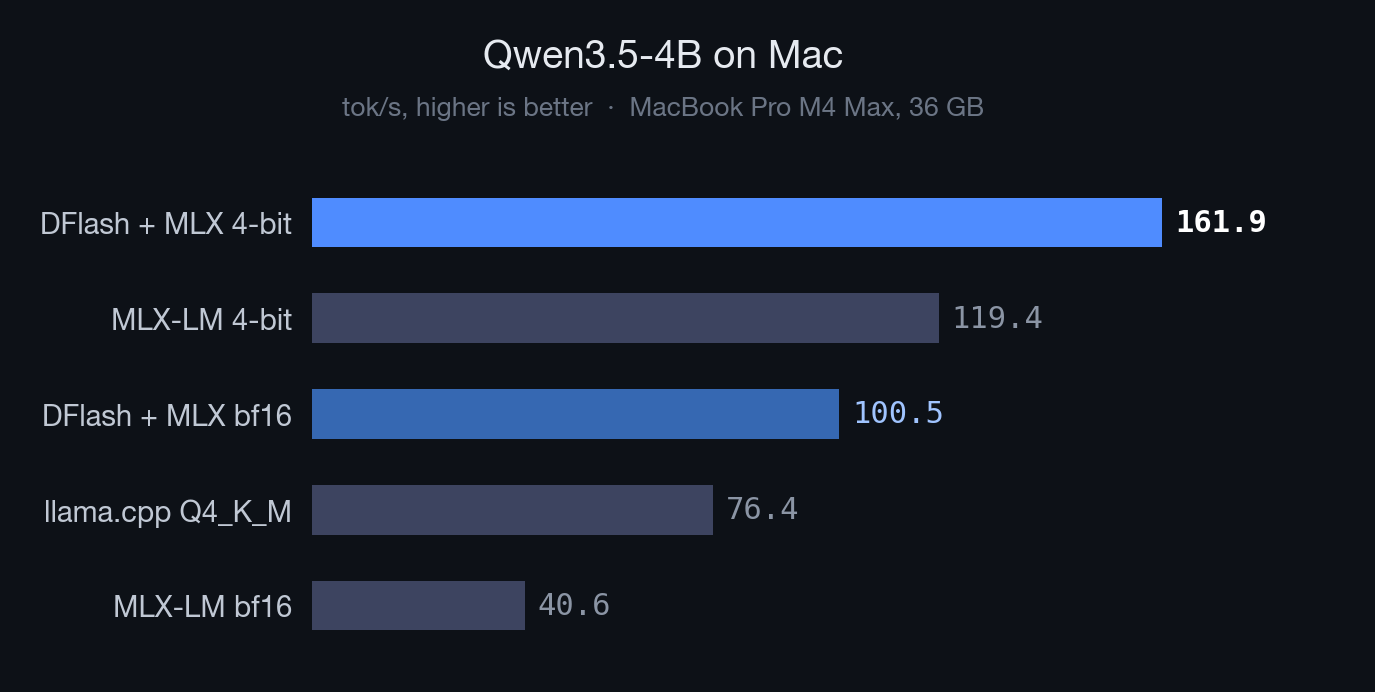
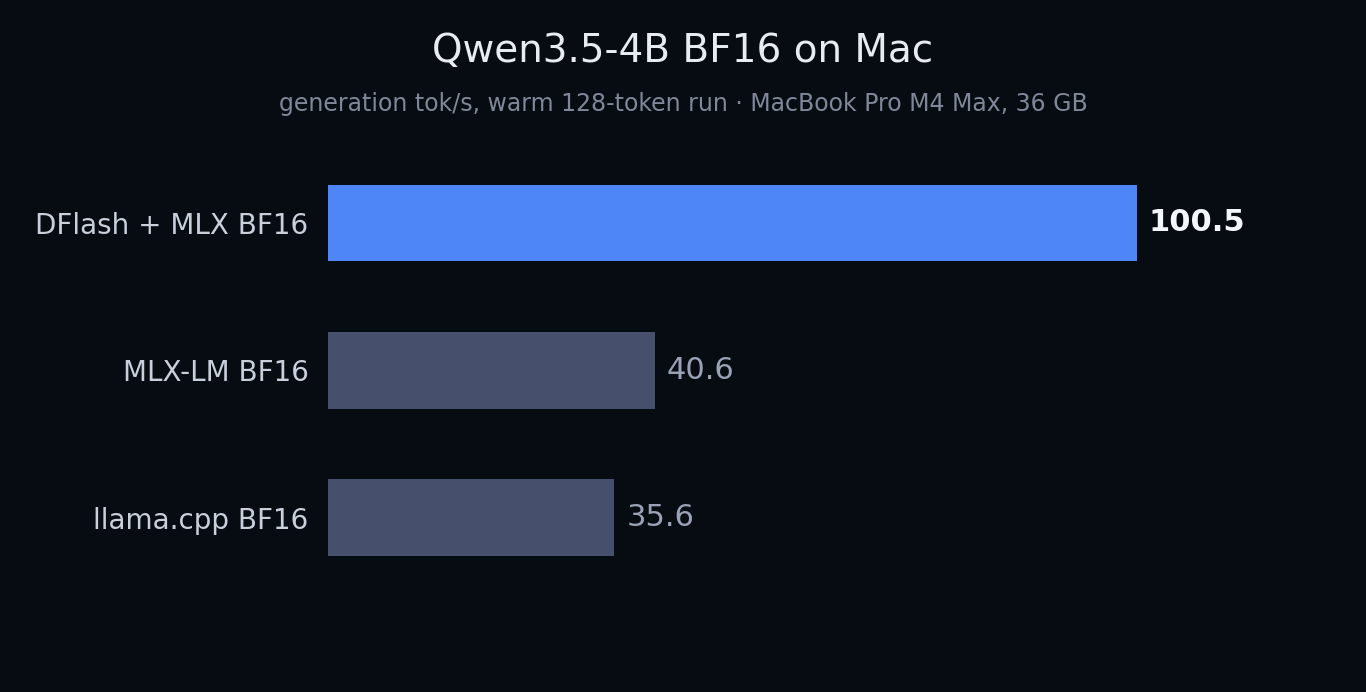
Make BF16 the headline benchmark path

diff --git a/dflash_mlx/api.py b/dflash_mlx/api.py
@@ -12,7 +12,7 @@ from .draft import DFlashDraftModel, load_draft_model, maybe_quantize_draft_mode
 from .runtime import dflash_generate
 
 
-DEFAULT_TARGET_MODEL = "mlx-community/Qwen3.5-4B-MLX-4bit"
+DEFAULT_TARGET_MODEL = "mlx-community/Qwen3.5-4B-MLX-bf16"
 DEFAULT_DRAFT_MODEL = "z-lab/Qwen3.5-4B-DFlash"
 
 

diff --git a/examples/python_api.py b/examples/python_api.py
@@ -2,7 +2,7 @@ from dflash_mlx import DFlashGenerator
 
 
 runner = DFlashGenerator(
-    target_model="mlx-community/Qwen3.5-4B-MLX-4bit",
+    target_model="mlx-community/Qwen3.5-4B-MLX-bf16",
     draft_model="z-lab/Qwen3.5-4B-DFlash",
 )
 

diff --git a/README.md b/README.md
@@ -6,20 +6,15 @@ Lossless speculative decoding on Apple Silicon. **Same output as the target mode
 
 https://github.com/user-attachments/assets/13411079-7ffd-4f3f-a3cd-fdf3dd44a537
 
-Best logged warm 128-token Qwen3.5-4B benchmark on MacBook Pro M4 Max, 36 GB:
+Best logged warm 128-token Qwen3.5-4B BF16 benchmark on MacBook Pro M4 Max, 36 GB:
 
-| | generation tok/s | vs llama.cpp |
+| Engine | generation tok/s | vs MLX-LM |
 |---|---:|---:|
-| **bf16** | | |
-| llama.cpp | 35.6 | 1.0x |
-| MLX-LM | 40.6 | 1.1x |
-| **DFlash + MLX** | **100.5** | **2.8x** |
-| **4-bit** | | |
-| llama.cpp (Q4_K_M) | 76.4 | 1.0x |
-| MLX-LM | 119.4 | 1.6x |
-| **DFlash + MLX** | **161.9** | **2.1x** |
+| llama.cpp BF16 | 35.6 | 0.9x |
+| MLX-LM BF16 | 40.6 | 1.0x |
+| **DFlash + MLX BF16** | **100.5** | **2.5x** |
 
-> These are best logged warm generation tok/s numbers on the built-in short prompt. Cold first runs include MLX compilation overhead, and long continuations depend on acceptance length, so benchmark your exact workload.
+> These are best logged warm generation tok/s numbers on the built-in short prompt. Cold first runs include MLX compilation overhead, and long continuations depend on acceptance length, so benchmark your exact workload. Quantized targets are supported, but quantized speedups are workload-dependent until adaptive fallback lands.
 
 ## How it works
 
@@ -34,7 +29,7 @@ git clone https://github.com/aryagm/dflash-mlx.git && cd dflash-mlx
 uv sync
 
 uv run dflash-mlx \
-  --target-model mlx-community/Qwen3.5-4B-MLX-4bit \
+  --target-model mlx-community/Qwen3.5-4B-MLX-bf16 \
   --draft-model z-lab/Qwen3.5-4B-DFlash \
   --max-new-tokens 128 \
   --warmup-runs 1 \
@@ -45,7 +40,7 @@ If you omit `--warmup-runs`, the first run is a cold smoke test and will be lowe
 
 ```bash
 uv run dflash-mlx \
-  --target-model mlx-community/Qwen3.5-4B-MLX-4bit \
+  --target-model mlx-community/Qwen3.5-4B-MLX-bf16 \
   --draft-model z-lab/Qwen3.5-4B-DFlash \
   --max-new-tokens 4096 \
   --warmup-runs 1 \
@@ -56,7 +51,7 @@ Machine-readable output:
 
 ```bash
 uv run dflash-mlx \
-  --target-model mlx-community/Qwen3.5-4B-MLX-4bit \
+  --target-model mlx-community/Qwen3.5-4B-MLX-bf16 \
   --draft-model z-lab/Qwen3.5-4B-DFlash \
   --prompt "Write a quicksort in Python." \
   --max-new-tokens 128 \
@@ -75,7 +70,7 @@ Check model support before loading full weights:
 
 ```bash
 uv run dflash-mlx-inspect \
-  --target-model mlx-community/Qwen3.5-4B-MLX-4bit \
+  --target-model mlx-community/Qwen3.5-4B-MLX-bf16 \
   --draft-model z-lab/Qwen3.5-4B-DFlash
 ```
 
@@ -97,8 +92,8 @@ Today this repo is focused on Qwen3.5-4B. Other upstream DFlash checkpoints need
 
 | Target | Draft | Status |
 |---|---|---|
-| `mlx-community/Qwen3.5-4B-MLX-4bit` | `z-lab/Qwen3.5-4B-DFlash` | Supported |
-| `mlx-community/Qwen3.5-4B-MLX-bf16` | `z-lab/Qwen3.5-4B-DFlash` | Supported |
+| `mlx-community/Qwen3.5-4B-MLX-bf16` | `z-lab/Qwen3.5-4B-DFlash` | Supported, headline path |
+| `mlx-community/Qwen3.5-4B-MLX-4bit` | `z-lab/Qwen3.5-4B-DFlash` | Supported, workload-dependent speedup |
 | `mlx-community/Qwen3-4B-{bf16,8bit,4bit}` | `z-lab/Qwen3-4B-DFlash-b16` | Experimental adapter |
 
 Upstream DFlash checkpoints exist for Llama 3.1, Qwen3 Coder, Kimi-K2.5, GPT-OSS, and more ([HF collection](https://huggingface.co/collections/z-lab/dflash)). Adding a new family starts with an adapter and may need a custom MLX model shim if cache rollback is architecture-specific; see [ADDING_MODELS.md](ADDING_MODELS.md).
